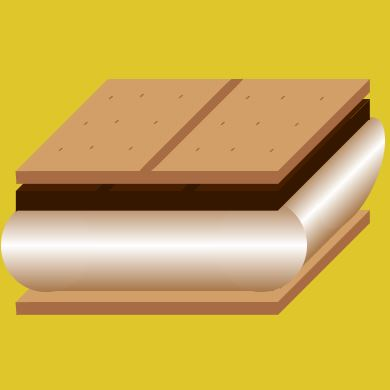
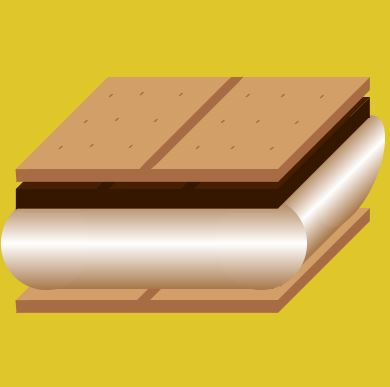
Added bottom part of graham cracker bottom to CSSSmores that was forgotten. Updated files and images.

diff --git a/smores.css b/smores.css
@@ -288,6 +288,18 @@ body {
   z-index: 6; /* Max*/
 }
 
+.cracker-part-bottom {
+  position: absolute;
+  top: 20%;
+  left: 47.5%;
+  width: 10px;
+  height: 70px;
+  transform: skew(-45deg);
+  background: var(--c-cracker-shadow);
+  border-radius: 10%;
+  z-index: 3; /* Max*/
+}
+
 .marshmallow-front {
   position: relative;
   left: 10%;

diff --git a/smores.html b/smores.html
@@ -18,6 +18,7 @@
       <div class="cracker-dots d5"></div>
       <div class="cracker-dots d6"></div>
       <div class="cracker-part"></div>
+      <div class="cracker-part-bottom"></div>      
       <div class="marshmallow-front"></div>
       <div class="marshmallow-side"></div>
       <div class="chocolate"></div>
